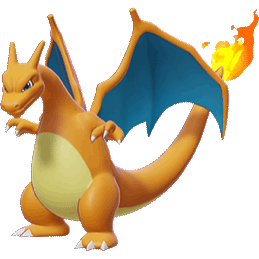
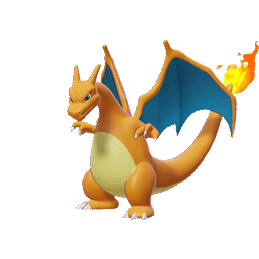
Added Blissey and Blastoise, updated Pokemon images
Added data and strings for Blissey and Blastoise. Resized some Pokemon images to fit the containers.

diff --git a/src/js/interface/TeamsInterface.js b/src/js/interface/TeamsInterface.js
@@ -36,8 +36,6 @@ var InterfaceMaster = (function () {
 					get = e.state;
 					self.loadGetData();
 				});
-
-				gm.generateLevelingScores();
 			};
 
 			// Completely refresh the lanes section

diff --git a/src/js/interface/BuildSelect.js b/src/js/interface/BuildSelect.js
@@ -29,7 +29,6 @@ function BuildSelect(element, ctx, selectors){
 	}
 
 	this.init = function(){
-
 		self.displayNewPokemonList();
 
 		$pokeSearch.val("");
